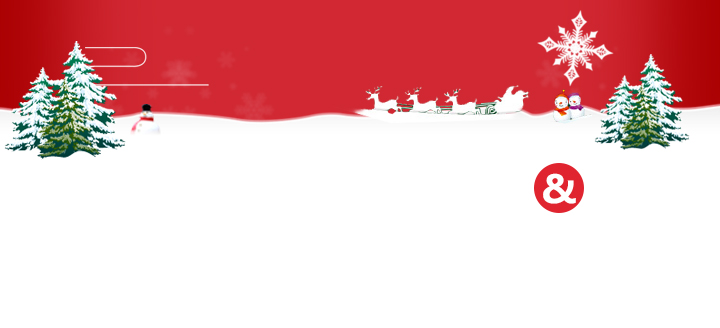
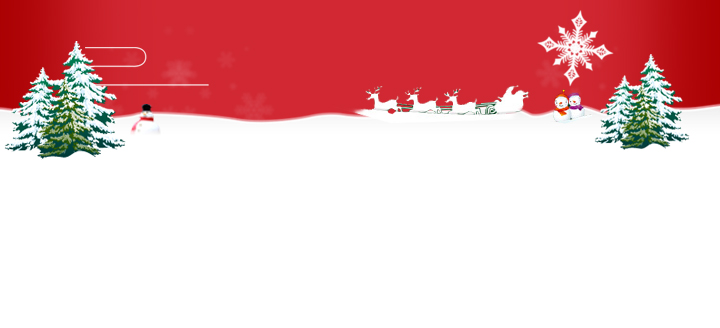
ceshi5
sssss

Changed region(s): [[0.7333, 0.4878, 0.825, 0.6707]]

diff --git a/index.html b/index.html
@@ -37,10 +37,10 @@
     <h2>19研友修仙群 备考领先一步</h2>
     <div class="m1-cont">
         <b class="wow bounceInRight" style="background-image: url(images/m3.png)">精选套装</b>
-        <p class="wow bounceInLeft">考研手帐——阶段总规划，月度大目标，每日小计划，365</p>
+        <p class="wow bounceInLeft"><b>考研手帐</b>——阶段总规划，月度大目标，每日小计划，365</p>
         <p class="wow bounceInLeft">天，记录“研”途点点滴滴</p>
-        <p class="wow bounceInLeft">错题本   ——标记重点，针对复习，温故知新，消化吸收</p>
-        <p class="wow bounceInLeft">寒假作业——收录经典习题，寒假勤加练习，扎实掌握基础</p>
+        <p class="wow bounceInLeft"><b>错题本</b>   ——标记重点，针对复习，温故知新，消化吸收</p>
+        <p class="wow bounceInLeft"><b>寒假作业</b>——收录经典习题，寒假勤加练习，扎实掌握基础</p>
         <p class="wow bounceInLeft">阶段核心知识</p>
         <b class="wow bounceInRight" style="background-image: url(images/m4.png)">每日炼技</b>
         <p class="wow bounceInLeft">每日一练+天天学，每天都有新突破</p>
@@ -560,6 +560,7 @@
         <span class="wow bounceIn" data-wow-delay="1.2s">m</span>
         <span class="wow bounceIn" data-wow-delay="1.3s">a</span>
         <span class="wow bounceIn" data-wow-delay="1.4s">s</span>
+        <span class="wow bounceIn" data-wow-delay="1.6s">&</span>
     </p>
     <p>
         <span class="wow bounceInRight" data-wow-delay="1.6s">H</span>

diff --git a/css/index.css b/css/index.css
@@ -66,7 +66,7 @@ header p{
     background-size: 17.5rem;
     position: relative;
 }
-.m1-cont b{
+.m1-cont > b{
     display: block;
     width: 4.6rem;
     height: 1.5rem;
@@ -332,7 +332,6 @@ header p{
 }
 .zg-main3 p{
     font-size:0;
-    overflow: hidden;
 }
 .zg-main3 p span{
     font-size:1.55rem;
@@ -347,6 +346,17 @@ header p{
 }
 .zg-main3 p:nth-child(1) span{
     font-size:1.15rem;
+}
+.zg-main3 p:nth-child(1) span:last-child{
+    width: 1.25rem;
+    height: 1.25rem;
+    background: #e0242f;
+    border-radius: 50%;
+    color: #fff;
+    font-size: 0.9rem;
+    text-align: center;
+    line-height: 1.25rem;
+    margin-left: 0.25rem
 }
 .zg-main3 p:nth-child(2){
     margin-left:2.35rem;
